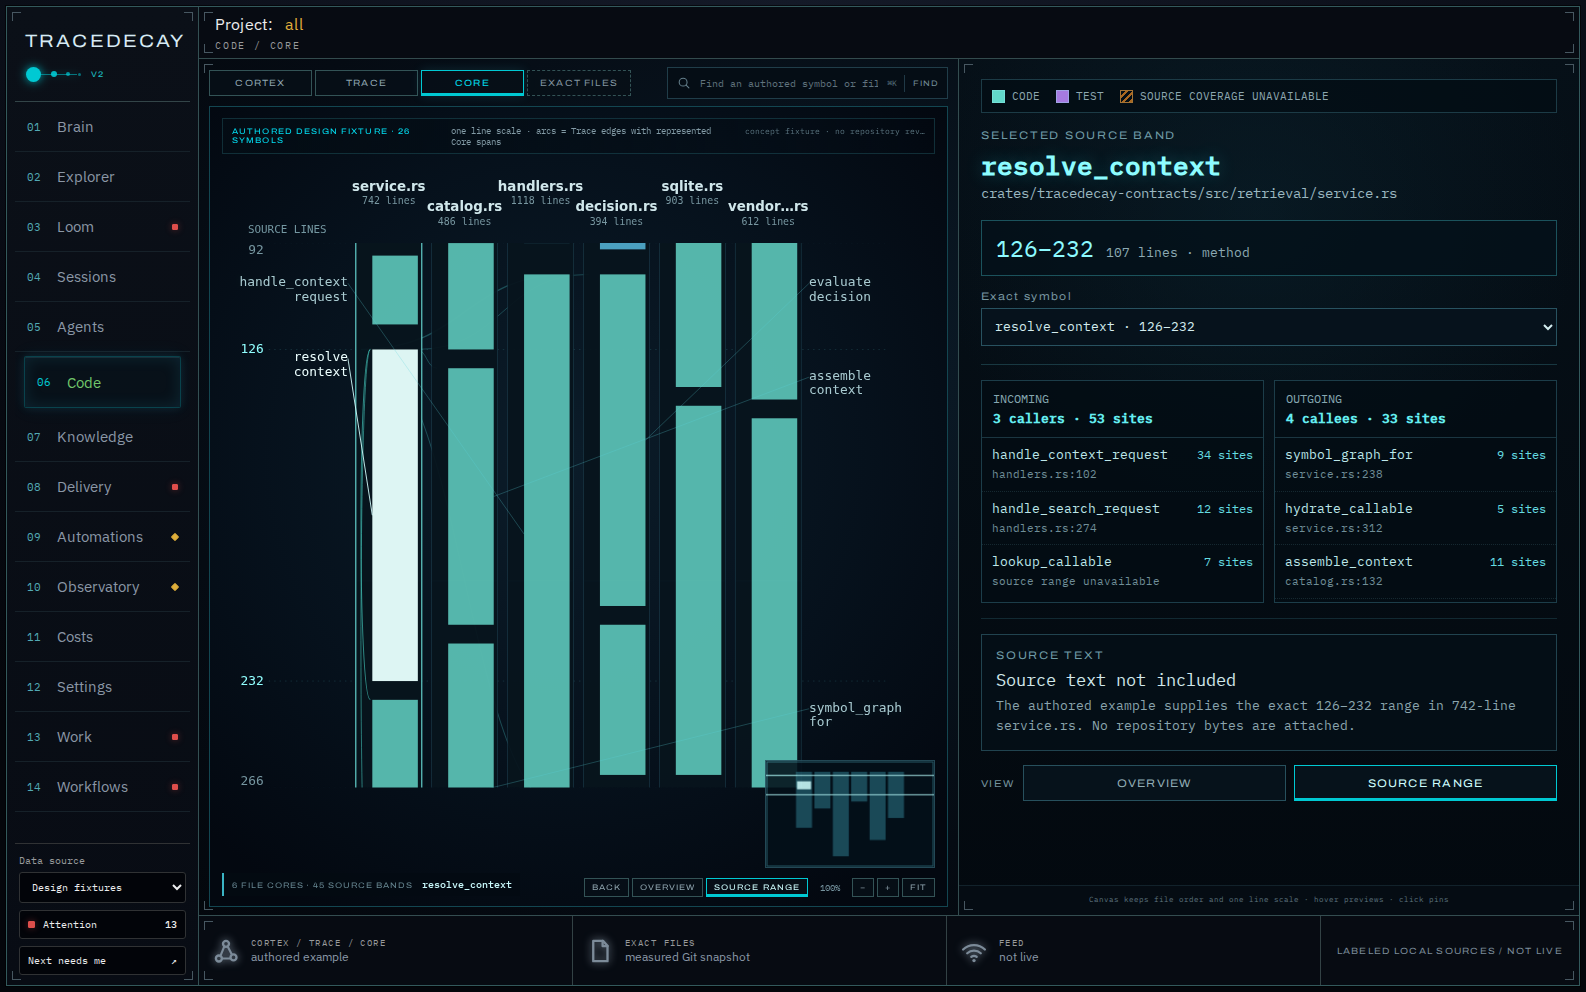
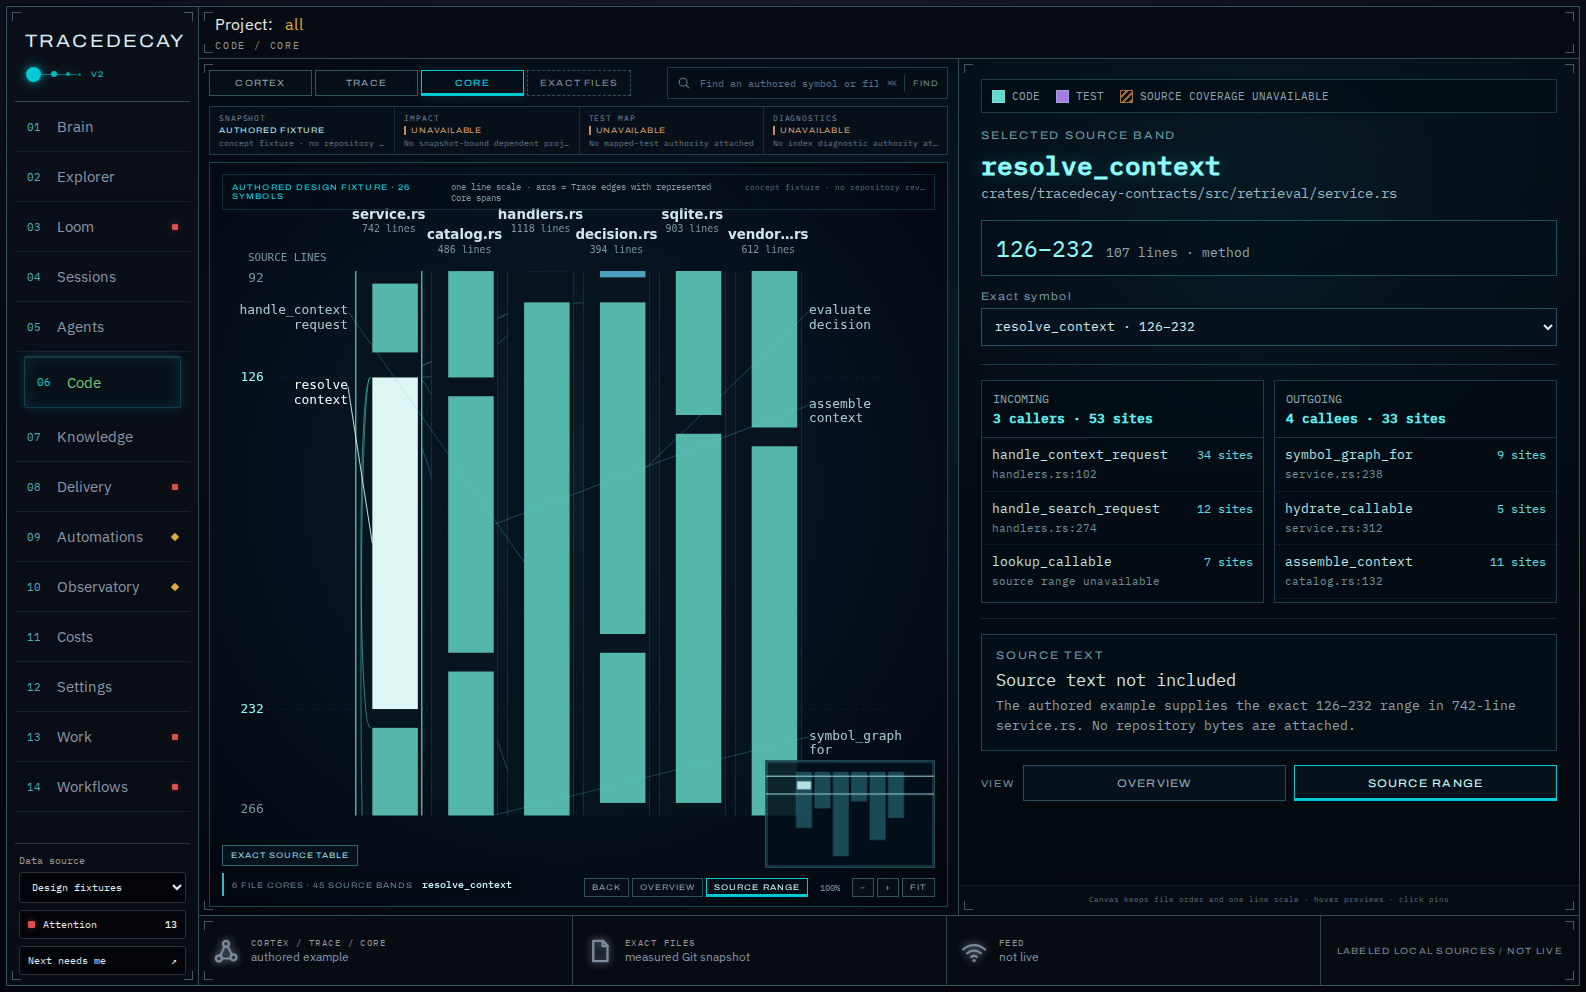
docs(mockups): refresh implementation screenshots

diff --git a/mockups/ui-concept-v2/screenshots/README.md b/mockups/ui-concept-v2/screenshots/README.md
@@ -1,6 +1,6 @@
 # Current UI screenshots
 
-Captured 2026-09-10 from the concept application in TraceDecay. These are full-resolution desktop screenshots, not design plates.
+Captured 2026-09-11 from the concept application in TraceDecay. These are full-resolution desktop screenshots, not design plates.
 
 The source column distinguishes authored examples from recorded data. Some example screens also display explicitly labeled snapshot evidence; each screen states its own coverage.
 
